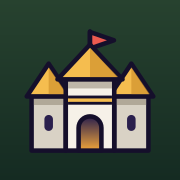
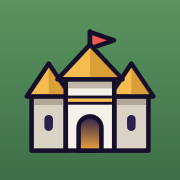
🎨 사이트 아이콘: 홈 화면 아이콘 배경을 밝은 풀밭 초록으로 변경
홈 화면에서 눈에 띄도록 배경을 짙은 초록에서 풀밭 초록(#5b9460 → #3c7048)으로
밝혔습니다. 왕궁 그림은 그대로입니다.

Claude-Session: https://claude.ai/code/session_01VNxp3XQvjFWy3o9oar4TQC

diff --git a/docs/assets.md b/docs/assets.md
@@ -47,7 +47,7 @@ PR 제목 맨 앞의 GitMoji가 시설을 결정합니다.
 
 ## 사이트 아이콘
 
-브라우저 탭과 홈 화면에 쓰는 아이콘입니다. 왕궁을 바탕으로 깃발, 지붕 음영, 창, 성문 불빛을 더한 별도 그림이며 월드맵에는 쓰지 않습니다. 16px에서도 선이 뭉치지 않도록 외곽선 굵기를 고정하지 않고 크기에 따라 함께 줄어들게 했습니다. `index.html`은 32px PNG와 SVG를 함께 선언합니다. SVG 아이콘을 지원하는 브라우저는 SVG를, 그렇지 않은 브라우저는 PNG를 씁니다. 홈 화면 아이콘은 투명 배경이 검게 채워지지 않도록 앱과 같은 초록 배경 위에 같은 그림을 올린 180px PNG입니다. 두 PNG는 SVG에서 변환한 것이므로 SVG를 고치면 다시 만듭니다.
+브라우저 탭과 홈 화면에 쓰는 아이콘입니다. 왕궁을 바탕으로 깃발, 지붕 음영, 창, 성문 불빛을 더한 별도 그림이며 월드맵에는 쓰지 않습니다. 16px에서도 선이 뭉치지 않도록 외곽선 굵기를 고정하지 않고 크기에 따라 함께 줄어들게 했습니다. `index.html`은 32px PNG와 SVG를 함께 선언합니다. SVG 아이콘을 지원하는 브라우저는 SVG를, 그렇지 않은 브라우저는 PNG를 씁니다. 홈 화면 아이콘은 투명 배경이 검게 채워지지 않도록 풀밭 초록 배경 위에 같은 그림을 올린 180px PNG입니다. 두 PNG는 SVG에서 변환한 것이므로 SVG를 고치면 다시 만듭니다.
 
 | 미리보기                                                | 이름           | 표시 기준                 | 원본                                                                                         |
 | ------------------------------------------------------- | -------------- | ------------------------- | -------------------------------------------------------------------------------------------- |
